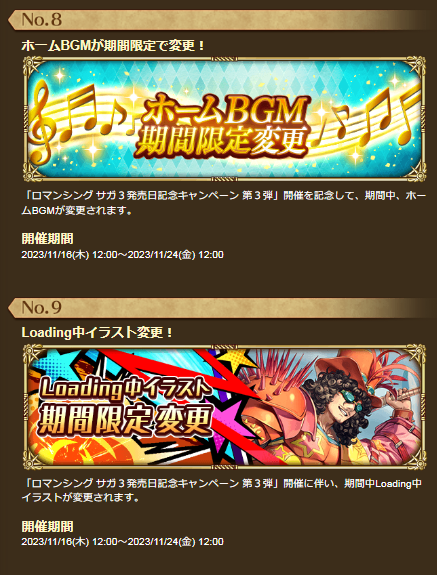
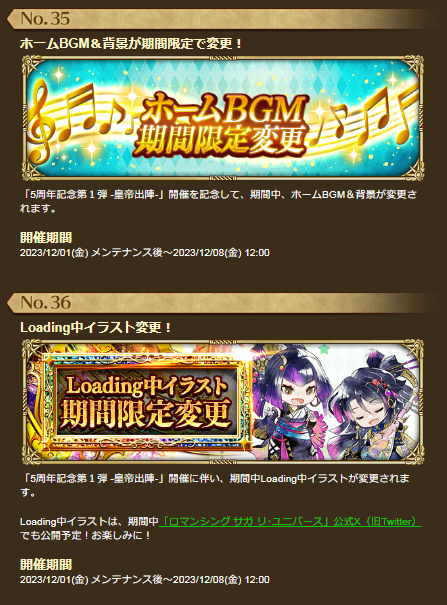
イベント情報追加

diff --git a/contents/romasagars/romasaga_pictures.html b/contents/romasagars/romasaga_pictures.html
@@ -25,18 +25,7 @@
     <link rel="stylesheet" href="../../css/style.css">
 
     <title>ロマサガＲＳ公式＆お祝いイラスト集</title>
-    
-    <!--[if lt IE 9]>
-    <script src="https://oss.maxcdn.com/html5shiv/3.7.2/html5shiv.min.js"></script>
-    <script src="https://oss.maxcdn.com/respond/1.4.2/respond.min.js"></script>
-    <style>
-      .menu1 a {background-position: -10px -10px;}
-      .menu2 a {background-position: -10px -130px;}
-      .menu3 a {background-position: -10px -250px;}
-      .menu4 a {background-position: -10px -370px;}
-      .menu5 a {background-position: -10px -490px;}
-    </style>
-    <![endif]-->
+
     <!-- Global site tag (gtag.js) - Google Analytics -->
     <script async src="https://www.googletagmanager.com/gtag/js?id=UA-156501005-1"></script>
     <script>

diff --git a/contents/romasagars/romasaga_ikusei.html b/contents/romasagars/romasaga_ikusei.html
@@ -25,17 +25,6 @@
 
     <title>ロマサガRS育成応援キャンペーンまとめ（移動前）</title>
 
-    <!--[if lt IE 9]>
-    <script src="https://oss.maxcdn.com/html5shiv/3.7.2/html5shiv.min.js"></script>
-    <script src="https://oss.maxcdn.com/respond/1.4.2/respond.min.js"></script>
-    <style>
-      .menu1 a {background-position: -10px -10px;}
-      .menu2 a {background-position: -10px -130px;}
-      .menu3 a {background-position: -10px -250px;}
-      .menu4 a {background-position: -10px -370px;}
-      .menu5 a {background-position: -10px -490px;}
-    </style>
-    <![endif]-->
     <!-- Global site tag (gtag.js) - Google Analytics -->
     <script async src="https://www.googletagmanager.com/gtag/js?id=UA-156501005-1"></script>
     <script>

diff --git a/contents/romasagars/romasaga_calendar.html b/contents/romasagars/romasaga_calendar.html
@@ -26,17 +26,6 @@
 
     <title>ロマサガRSカレンダー</title>
 
-    <!--[if lt IE 9]>
-    <script src="https://oss.maxcdn.com/html5shiv/3.7.2/html5shiv.min.js"></script>
-    <script src="https://oss.maxcdn.com/respond/1.4.2/respond.min.js"></script>
-    <style>
-      .menu1 a {background-position: -10px -10px;}
-      .menu2 a {background-position: -10px -130px;}
-      .menu3 a {background-position: -10px -250px;}
-      .menu4 a {background-position: -10px -370px;}
-      .menu5 a {background-position: -10px -490px;}
-    </style>
-    <![endif]-->
     <!-- Global site tag (gtag.js) - Google Analytics -->
     <script async src="https://www.googletagmanager.com/gtag/js?id=UA-156501005-1"></script>
     <script>
